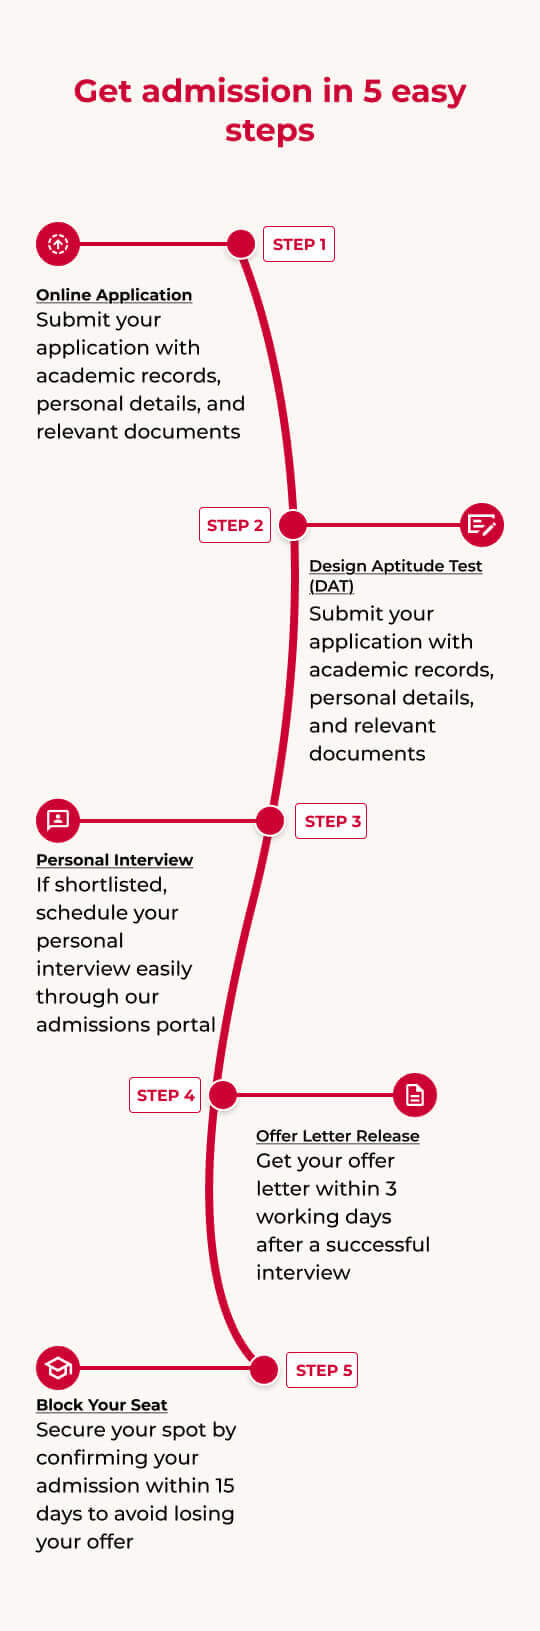
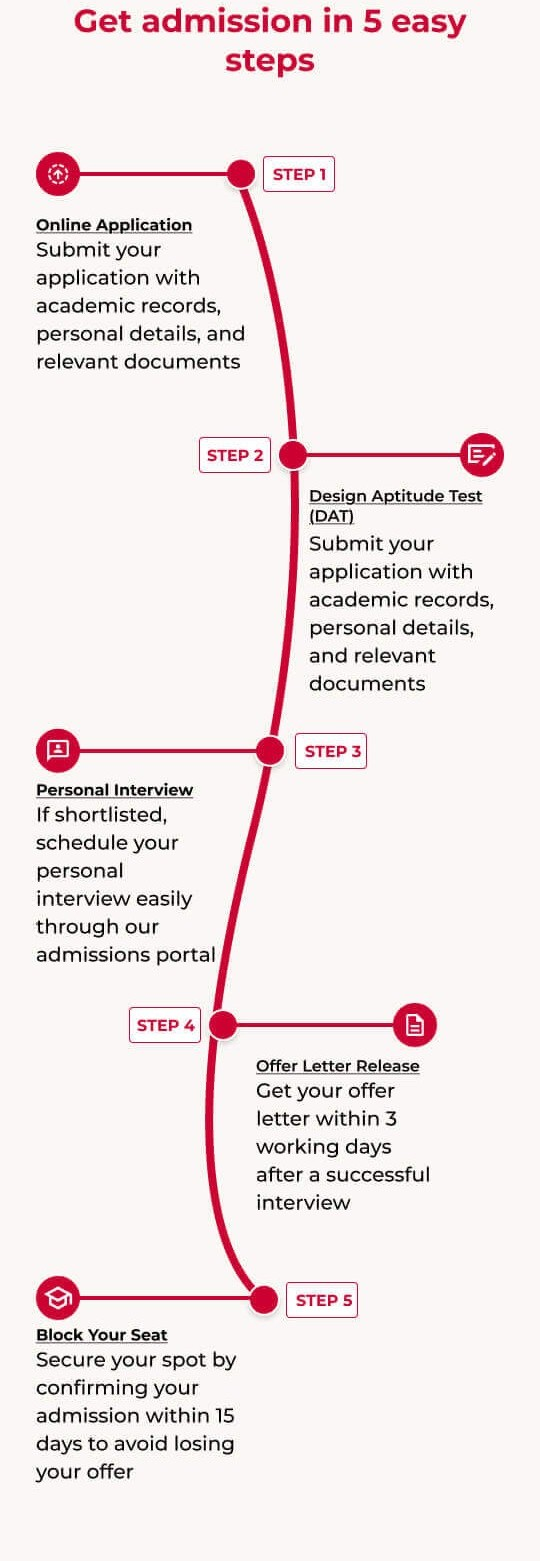
minor padding and ui chantges

Changed region(s): [[0.0593, 0.0, 0.9481, 0.9532], [0.1185, 0.0, 0.237, 0.0615]]

diff --git a/index.html b/index.html
@@ -185,11 +185,11 @@
                 </p>
             </div>
 
-            <div class="minor-card">
+            <!-- <div class="minor-card">
                 <div class="minor-number">5.</div>
                 <h1 class="minor-title">Economics & Public Policy</h1>
                 <p class="minor-description">Shape policies to drive meaningful change</p>
-            </div>
+            </div> -->
         </div>
     </section>
 
@@ -218,8 +218,8 @@
                     <div class="program-stat-label">Years of Immersive Learning</div>
                 </div>
                 <div class="program-stat-card program-hours-card">
-                    <div class="program-stat-number">40+</div>
-                    <div class="program-stat-label">Electives across 6 minor degree program</div>
+                    <div class="program-stat-number">10+</div>
+                    <div class="program-stat-label">Choice of Minors & Electives</div>
                 </div>
                 <div class="program-stat-card program-hours-card">
                     <div class="program-stat-number">450+</div>
@@ -245,14 +245,14 @@
                     <div class="program-stat-number">80+</div>
                     <div class="program-stat-label">Modules</div>
                 </div>
-                <div class="program-stat-card program-hours-card">
+                <div class="program-stat-card program-hours-card hide-on-phone">
                     <div class="program-stat-number">6</div>
                     <div class="program-stat-label">Months of Hands-On Industry Training</div>
                 </div>
-                <div class="program-stat-card program-hours-card">
+                <!-- <div class="program-stat-card program-hours-card">
                     <div class="program-stat-number">7</div>
                     <div class="program-stat-label">Semesters of On-Campus Holistic Learning</div>
-                </div>
+                </div> -->
             </div>
 
             <!-- Software Skills Grid -->
@@ -270,9 +270,6 @@
                     <img class="software-icon" src="assets/program-experience-section/figma.png" alt="Figma">
                 </div>
                 <div class="program-stat-card software-card">
-                    <img class="software-icon" src="assets/program-experience-section/Behance.png" alt="Behance">
-                </div>
-                <div class="program-stat-card software-card">
                     <img class="software-icon" src="assets/program-experience-section/Gsuite.png" alt="Gsuite">
                 </div>
                 <div class="program-stat-card software-card">
@@ -282,13 +279,10 @@
                     <img class="software-icon" src="assets/program-experience-section/unity.png" alt="Unity">
                 </div>
                 <div class="program-stat-card software-card">
-                    <img class="software-icon" src="assets/program-experience-section/Microsoft.webp" alt="Microsoft">
+                    <img class="software-icon" src="assets/program-experience-section/office.png" alt="Office">
                 </div>
                 <div class="program-stat-card software-card">
-                    <img class="software-icon" src="assets/program-experience-section/twinmotion.webp" alt="Twinmotion">
-                </div>
-                <div class="program-stat-card software-card hide-on-phone ">
-                    <img class="software-icon " src="assets/program-experience-section/cii.png" alt="CII">
+                    <img class="software-icon" src="assets/program-experience-section/Behance.png" alt="Behance">
                 </div>
                 <div class="program-stat-card software-card">
                     <img class="software-icon" src="assets/program-experience-section/autocad.png" alt="Autocad">
@@ -296,12 +290,16 @@
                 <div class="program-stat-card software-card">
                     <img class="software-icon" src="assets/program-experience-section/rhinoceros.png" alt="Rhinoceros">
                 </div>
-                <div class="program-stat-card software-card">
-                    <img class="software-icon" src="assets/program-experience-section/office.png" alt="Office">
-                </div>
+                
                 <div class="program-stat-card software-card">
                     <img class="software-icon" src="assets/program-experience-section/keyshot.png" alt="Keyshot">
                 </div>
+                <!-- <div class="program-stat-card software-card">
+                    <img class="software-icon" src="assets/program-experience-section/twinmotion.webp" alt="Twinmotion">
+                </div>
+                <div class="program-stat-card software-card hide-on-phone ">
+                    <img class="software-icon " src="assets/program-experience-section/cii.png" alt="CII">
+                </div> -->
 
             </div>
 
@@ -1139,10 +1137,10 @@
                 <div class="partner-card">
                     <img src="assets/Icon/Mask Group 559.png" alt="Partner" class="partner-logo">
                 </div>
-                <div class="partner-card">
+                <div class="partner-card hide-on-phone">
                     <img src="assets/Icon/Mask Group 560.png" alt="Partner" class="partner-logo">
                 </div>
-                <div class="partner-card">
+                <div class="partner-card hide-on-phone">
                     <img src="assets/Icon/Mask Group 561.png" alt="Partner" class="partner-logo">
                 </div>
             </div>
@@ -1167,8 +1165,8 @@
                 <div class="partner-card">
                     <img src="assets/Icon/guest/Mask Group 562.png" alt="Partner" class="partner-logo">
                 </div>
-                <div class="partner-card">
-                    <img src="assets/Icon/guest/Mask Group 563.png" alt="Partner" class="partner-logo">
+                <div class="partner-card hide-on-phone">
+                    <img src="assets/Icon/guest/Mask Group 563.png" alt="Partner" class="partner-logo ">
                 </div>
             </div>
         </div>

diff --git a/styles.css b/styles.css
@@ -344,7 +344,7 @@ body {
 
 @media (min-width: 1024px) {
   .program-stats-grid {
-    grid-template-columns: repeat(5, 1fr);
+    grid-template-columns: repeat(3, 1fr);
     gap: 1rem;
   }
 }
@@ -366,7 +366,7 @@ body {
 
 @media (min-width: 1024px) {
   .software-grid {
-    grid-template-columns: repeat(5, 1fr);
+    grid-template-columns: repeat(4, 1fr);
     gap: 1rem;
   }
 }
@@ -420,17 +420,18 @@ body {
 
 /* program hours card */
 .program-hours-card {
-  padding: 5rem 1.5rem !important;
+  padding: 2rem 1.5rem !important;
   display: flex;
   flex-direction: column;
   align-items: center;
   justify-content: center;
   text-align: center;
+  font-family: "Familjen Grotesk", sans-serif;
 }
 
 @media (min-width: 768px) {
   .program-hours-card {
-    padding: 4.75rem 2rem;
+    padding: 3.75rem 2rem;
   }
 }
 
@@ -492,7 +493,7 @@ body {
 
 @media (min-width: 768px) {
   .program-stat-number {
-    font-size: 2.6rem;
+    font-size: 2.9rem;
     margin-bottom: 0.5rem;
   }
 }
@@ -507,7 +508,7 @@ body {
 
 @media (min-width: 768px) {
   .program-stat-label {
-    font-size: 1rem;
+    font-size: 1.2rem;
     /* max-width: 220px;  */
   }
 }
@@ -1191,7 +1192,7 @@ body {
 /* Mobile Styles - Faculty */
 @media (max-width: 767px) {
   .faculty-section {
-    padding: 40px 16px;
+    padding: 20px 16px 30px;
     min-height: 70vh;
   }
 
@@ -1224,6 +1225,7 @@ body {
     margin-bottom: 20px;
     margin-left: 8px;
     margin-right: 8px;
+    margin-top: 40px;
     text-align: center;
     width: auto;
     box-shadow: 0 2px 8px rgba(0, 0, 0, 0.08);
@@ -1318,7 +1320,7 @@ body {
   flex-direction: column;
   justify-content: center;
   align-items: center;
-  padding: 40px 24px 60px 24px;
+  padding: 25px 24px 60px 24px;
   background-color: white;
 }
 
@@ -1758,7 +1760,7 @@ body {
   justify-content: center;
   align-items: center;
   min-height: 100vh;
-  padding: 0rem 2.5rem;
+  padding: 1rem 2.5rem;
   background-color: #faf8f4;
 }
 
@@ -1768,32 +1770,18 @@ body {
   }
 }
 
-.admission-title {
-  color: var(--brand-red);
-  font-weight: 700;
-  text-align: center;
-  font-size: 28px;
-  padding-top: 1.5rem;
-  padding-left: 1rem;
-  padding-right: 1rem;
-}
 
-@media (min-width: 768px) {
-  .admission-title {
-    font-size: 48px;
-    padding-top: 0rem;
-  }
-}
 
 .admission-image {
   width: 90%;
   max-width: 1460px;
-  margin-top: 1.4rem;
+  margin-top: 1rem;
 }
 
 @media (min-width: 768px) {
   .admission-image {
-    margin-top: 2.5rem;
+    margin-top: 1rem;
+    width: 80%;
   }
 }
 
@@ -4025,7 +4013,6 @@ body {
   display: flex;
   flex-direction: column;
   overflow: hidden;
-  border: 4px solid #cc0033;
 }
 
 .specialization-card-img {
